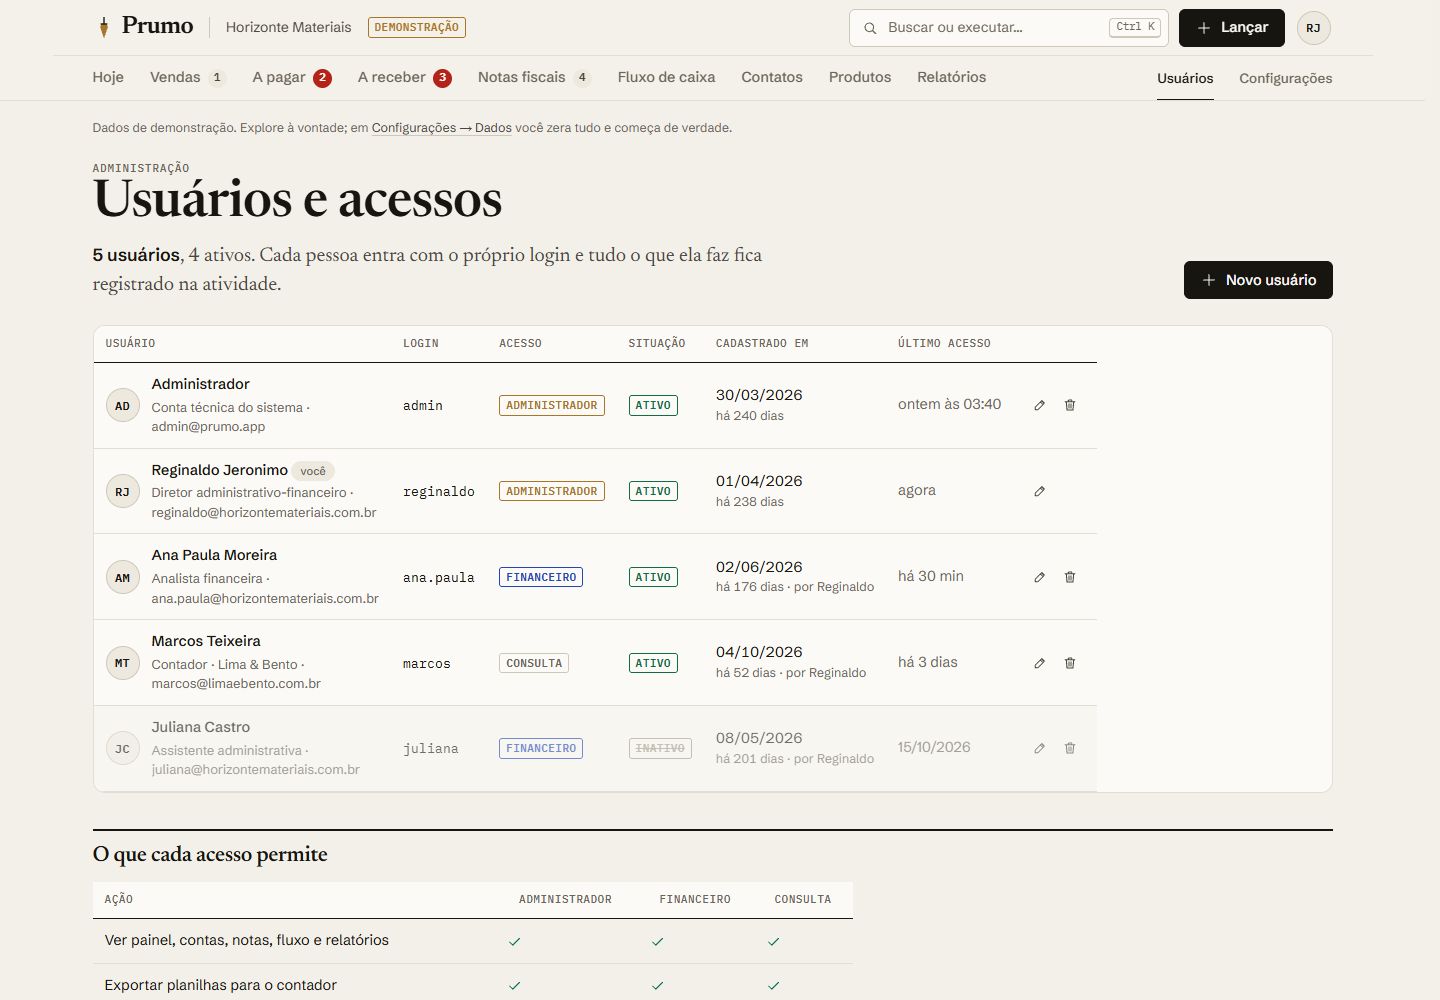
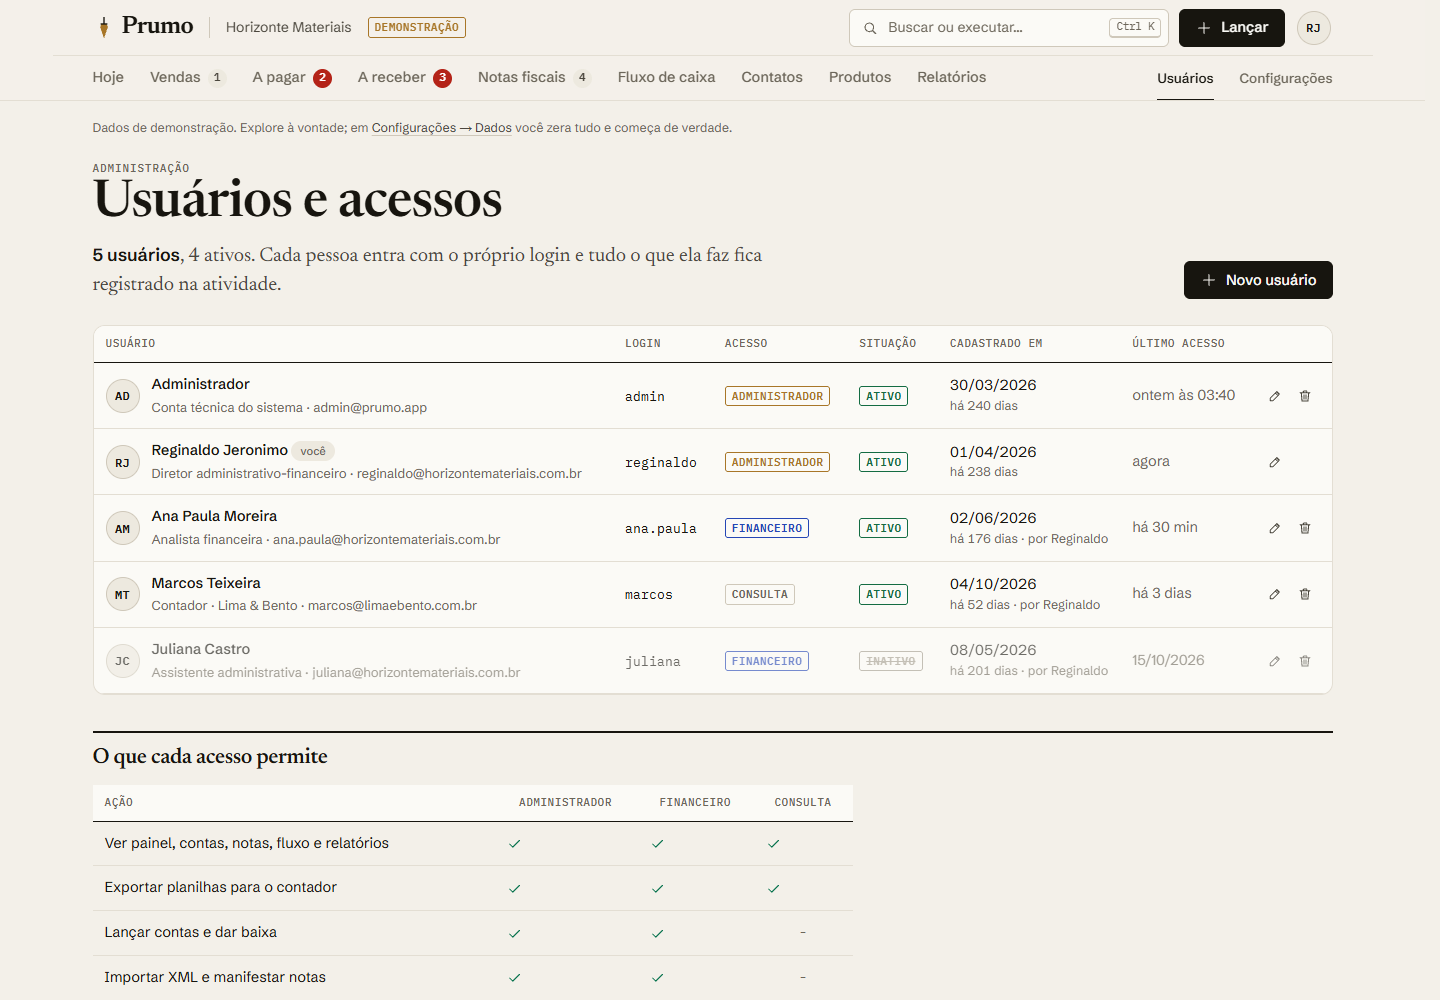
Corrige tabelas espremidas pelo painel de números
O painel novo usava a classe .painel, que já existia como caixa das
tabelas (Produtos, Notas, Vendas, Relatórios, Usuários, Fluxo). As
tabelas viravam grade e ficavam na metade da largura. O painel passa a
usar .numeros.

diff --git a/src/styles/components.css b/src/styles/components.css
@@ -1164,17 +1164,17 @@ dialog.paleta {
 /* ---------- Painel de números ----------
    Uma faixa só, dividida por réguas finas (não uma grade de cartões).
    O filete de cima diz o que o número é; o rótulo diz em palavras. */
-.painel {
-  --painel-cols: var(--painel-n, 4);
+.numeros {
+  --numeros-cols: var(--numeros-n, 4);
   display: grid;
-  grid-template-columns: repeat(var(--painel-cols), minmax(0, 1fr));
+  grid-template-columns: repeat(var(--numeros-cols), minmax(0, 1fr));
   margin: 0;
   overflow: hidden;
   background: var(--folha);
   border: 1px solid var(--regua);
   border-radius: var(--raio-g);
 }
-.painel__item {
+.numeros__item {
   --cor-tom: var(--regua-2);
   --cor-valor: var(--tinta);
   position: relative;
@@ -1187,35 +1187,35 @@ dialog.paleta {
   container-type: inline-size;
   box-shadow: 1px 0 0 var(--regua), 0 1px 0 var(--regua);
 }
-.painel__item--entrada {
+.numeros__item--entrada {
   --cor-tom: var(--entrada);
   --cor-valor: var(--entrada);
 }
-.painel__item--saida {
+.numeros__item--saida {
   --cor-tom: var(--saida);
   --cor-valor: var(--saida);
 }
-.painel__item--critico {
+.numeros__item--critico {
   --cor-tom: var(--critico);
   --cor-valor: var(--critico);
 }
-.painel__item--atencao {
+.numeros__item--atencao {
   --cor-tom: var(--atencao);
   --cor-valor: var(--atencao);
 }
-.painel__item--marca {
+.numeros__item--marca {
   --cor-tom: var(--latao);
 }
-.painel__item--neutro {
+.numeros__item--neutro {
   --cor-tom: var(--tinta);
 }
-.painel__item--zerado {
+.numeros__item--zerado {
   --cor-tom: var(--regua);
   --cor-valor: var(--tinta-3);
 }
-.painel dt,
-.painel dt a,
-.painel dt button {
+.numeros dt,
+.numeros dt a,
+.numeros dt button {
   font-family: var(--fonte-mono);
   font-size: 11px;
   font-weight: 500;
@@ -1224,17 +1224,17 @@ dialog.paleta {
   color: var(--tinta-3);
   text-decoration: none;
 }
-.painel dt button {
+.numeros dt button {
   padding: 0;
   border: 0;
   background: none;
   cursor: pointer;
   text-align: left;
 }
-.painel dd {
+.numeros dd {
   margin: 0;
 }
-.painel__valor {
+.numeros__valor {
   font-family: var(--fonte-ui);
   /* o número acompanha a largura da célula: dinheiro nunca é cortado */
   font-size: clamp(19px, calc(12.5cqi - 3px), 36px);
@@ -1245,7 +1245,7 @@ dialog.paleta {
   color: var(--cor-valor);
   white-space: nowrap;
 }
-.painel__nota {
+.numeros__nota {
   display: flex;
   align-items: center;
   flex-wrap: wrap;
@@ -1253,61 +1253,61 @@ dialog.paleta {
   font-size: 13px;
   color: var(--tinta-3);
 }
-.painel__nota strong {
+.numeros__nota strong {
   color: var(--tinta-2);
   font-weight: 600;
   white-space: nowrap;
 }
 /* com 6 números, duas linhas de 3: cada número tem espaço para ser grande */
-.painel--6 {
-  --painel-cols: 3;
+.numeros--6 {
+  --numeros-cols: 3;
 }
 /* o item inteiro é clicável: o link/botão do rótulo cobre a célula */
-.painel__item--clicavel dt a::after,
-.painel__item--clicavel dt button::after {
+.numeros__item--clicavel dt a::after,
+.numeros__item--clicavel dt button::after {
   content: '';
   position: absolute;
   inset: 0;
 }
-.painel__item--clicavel:hover {
+.numeros__item--clicavel:hover {
   background: var(--folha-2);
 }
-.painel__item--clicavel dt a:focus-visible,
-.painel__item--clicavel dt button:focus-visible {
+.numeros__item--clicavel dt a:focus-visible,
+.numeros__item--clicavel dt button:focus-visible {
   outline: none;
 }
-.painel__item--clicavel:has(:focus-visible) {
+.numeros__item--clicavel:has(:focus-visible) {
   outline: 2px solid var(--caneta);
   outline-offset: -2px;
 }
-.painel__item--ativo {
+.numeros__item--ativo {
   background: var(--folha-3);
 }
-.painel__item--ativo dt button {
+.numeros__item--ativo dt button {
   color: var(--tinta);
 }
 @media (max-width: 1100px) {
-  .painel {
-    --painel-cols: 3;
+  .numeros {
+    --numeros-cols: 3;
   }
-  .painel--4 {
-    --painel-cols: 2;
+  .numeros--4 {
+    --numeros-cols: 2;
   }
 }
 @media (max-width: 640px) {
-  .painel {
-    --painel-cols: 2;
+  .numeros {
+    --numeros-cols: 2;
   }
-  .painel__item {
+  .numeros__item {
     padding: 13px 14px;
   }
-  .painel__item--destaque,
-  .painel__item--destaque ~ .painel__item:last-child:nth-child(even),
-  .painel:not(:has(.painel__item--destaque)) > .painel__item:last-child:nth-child(odd) {
+  .numeros__item--destaque,
+  .numeros__item--destaque ~ .numeros__item:last-child:nth-child(even),
+  .numeros:not(:has(.numeros__item--destaque)) > .numeros__item:last-child:nth-child(odd) {
     grid-column: 1 / -1;
   }
   /* o que sobra sozinho na última linha ocupa a largura, mas não cresce mais que o destaque */
-  .painel__item:not(.painel__item--destaque) .painel__valor {
+  .numeros__item:not(.numeros__item--destaque) .numeros__valor {
     font-size: min(28px, calc(12.5cqi - 3px));
   }
 }

diff --git a/src/components/Painel.tsx b/src/components/Painel.tsx
@@ -26,16 +26,16 @@ export interface ItemPainel {
 
 export function Painel({ itens, rotulo, className }: { itens: ItemPainel[]; rotulo: string; className?: string }) {
   return (
-    <dl className={classes('painel', `painel--${itens.length}`, className)} aria-label={rotulo} style={{ '--painel-n': itens.length } as CSSProperties}>
+    <dl className={classes('numeros', `numeros--${itens.length}`, className)} aria-label={rotulo} style={{ '--numeros-n': itens.length } as CSSProperties}>
       {itens.map((i) => (
         <div
           key={i.chave}
           className={classes(
-            'painel__item',
-            `painel__item--${i.zerado ? 'zerado' : (i.tom ?? 'neutro')}`,
-            (i.para || i.aoClicar) && 'painel__item--clicavel',
-            i.ativo && 'painel__item--ativo',
-            i.destaque && 'painel__item--destaque',
+            'numeros__item',
+            `numeros__item--${i.zerado ? 'zerado' : (i.tom ?? 'neutro')}`,
+            (i.para || i.aoClicar) && 'numeros__item--clicavel',
+            i.ativo && 'numeros__item--ativo',
+            i.destaque && 'numeros__item--destaque',
           )}
         >
           <dt>
@@ -49,8 +49,8 @@ export function Painel({ itens, rotulo, className }: { itens: ItemPainel[]; rotu
               i.rotulo
             )}
           </dt>
-          <dd className={classes('painel__valor', i.valorClasse)}>{i.valor}</dd>
-          {i.nota != null && <dd className="painel__nota">{i.nota}</dd>}
+          <dd className={classes('numeros__valor', i.valorClasse)}>{i.valor}</dd>
+          {i.nota != null && <dd className="numeros__nota">{i.nota}</dd>}
         </div>
       ))}
     </dl>

diff --git a/src/styles/shell.css b/src/styles/shell.css
@@ -393,9 +393,9 @@
 }
 
 /* painel de números logo abaixo do cabeçalho da página */
-.pagina-cabeca + .painel {
+.pagina-cabeca + .numeros {
   margin-bottom: 24px;
 }
-.hoje__abertura > .painel {
+.hoje__abertura > .numeros {
   margin-bottom: 0;
 }
